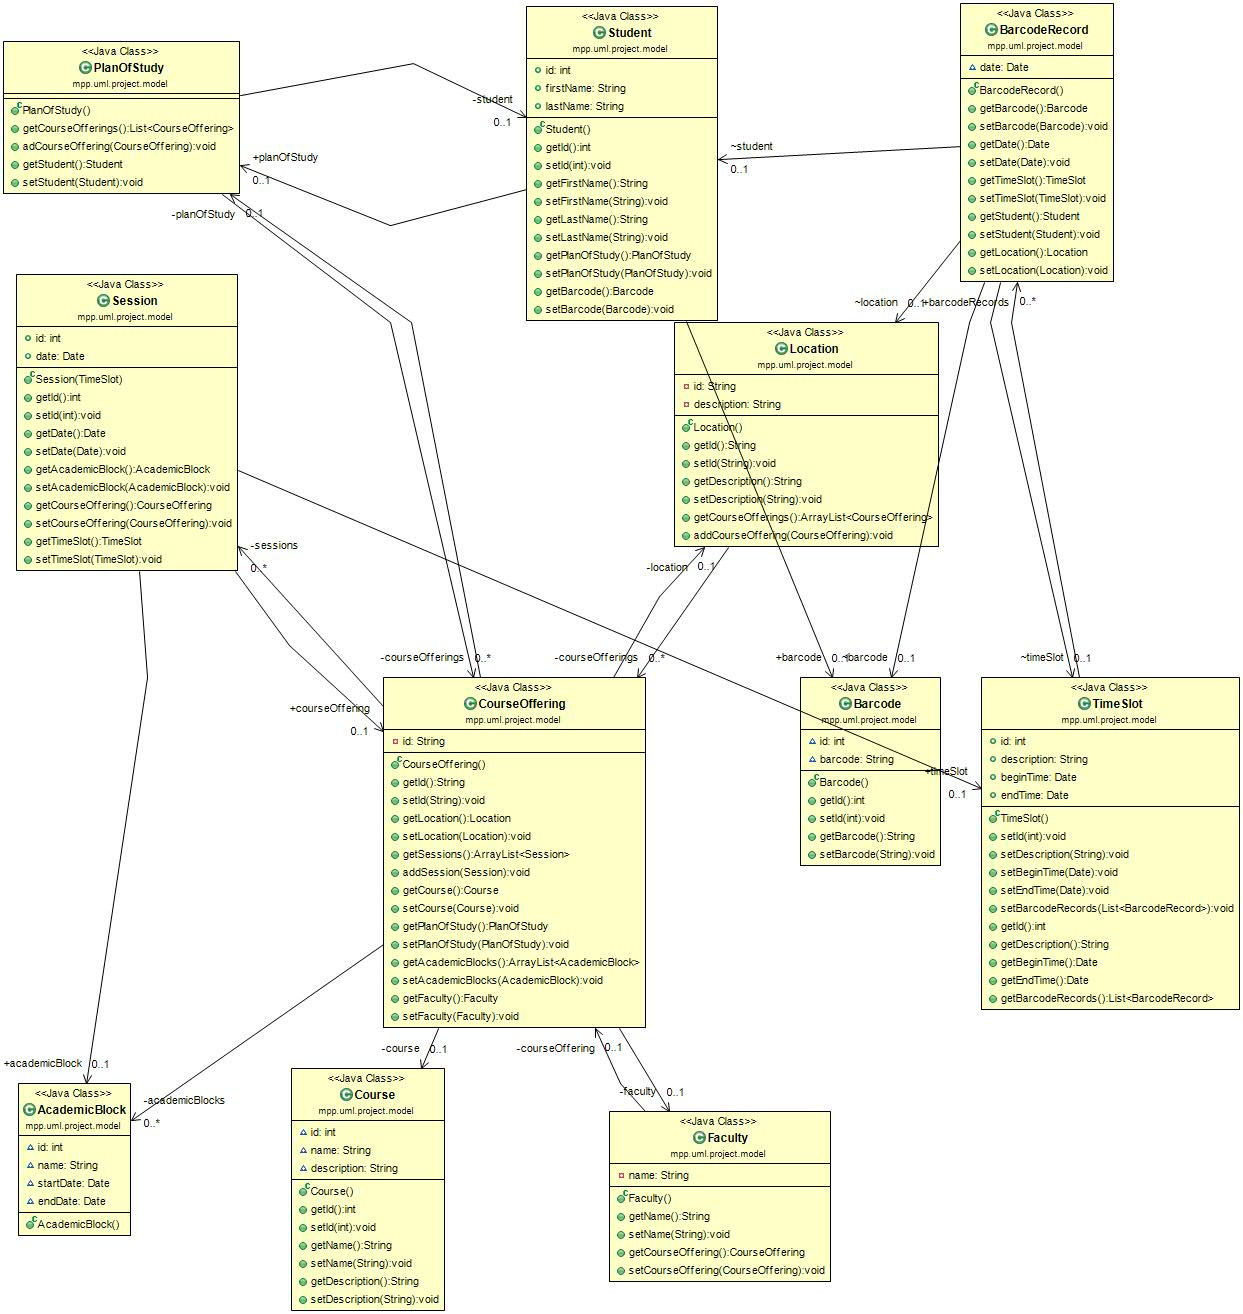
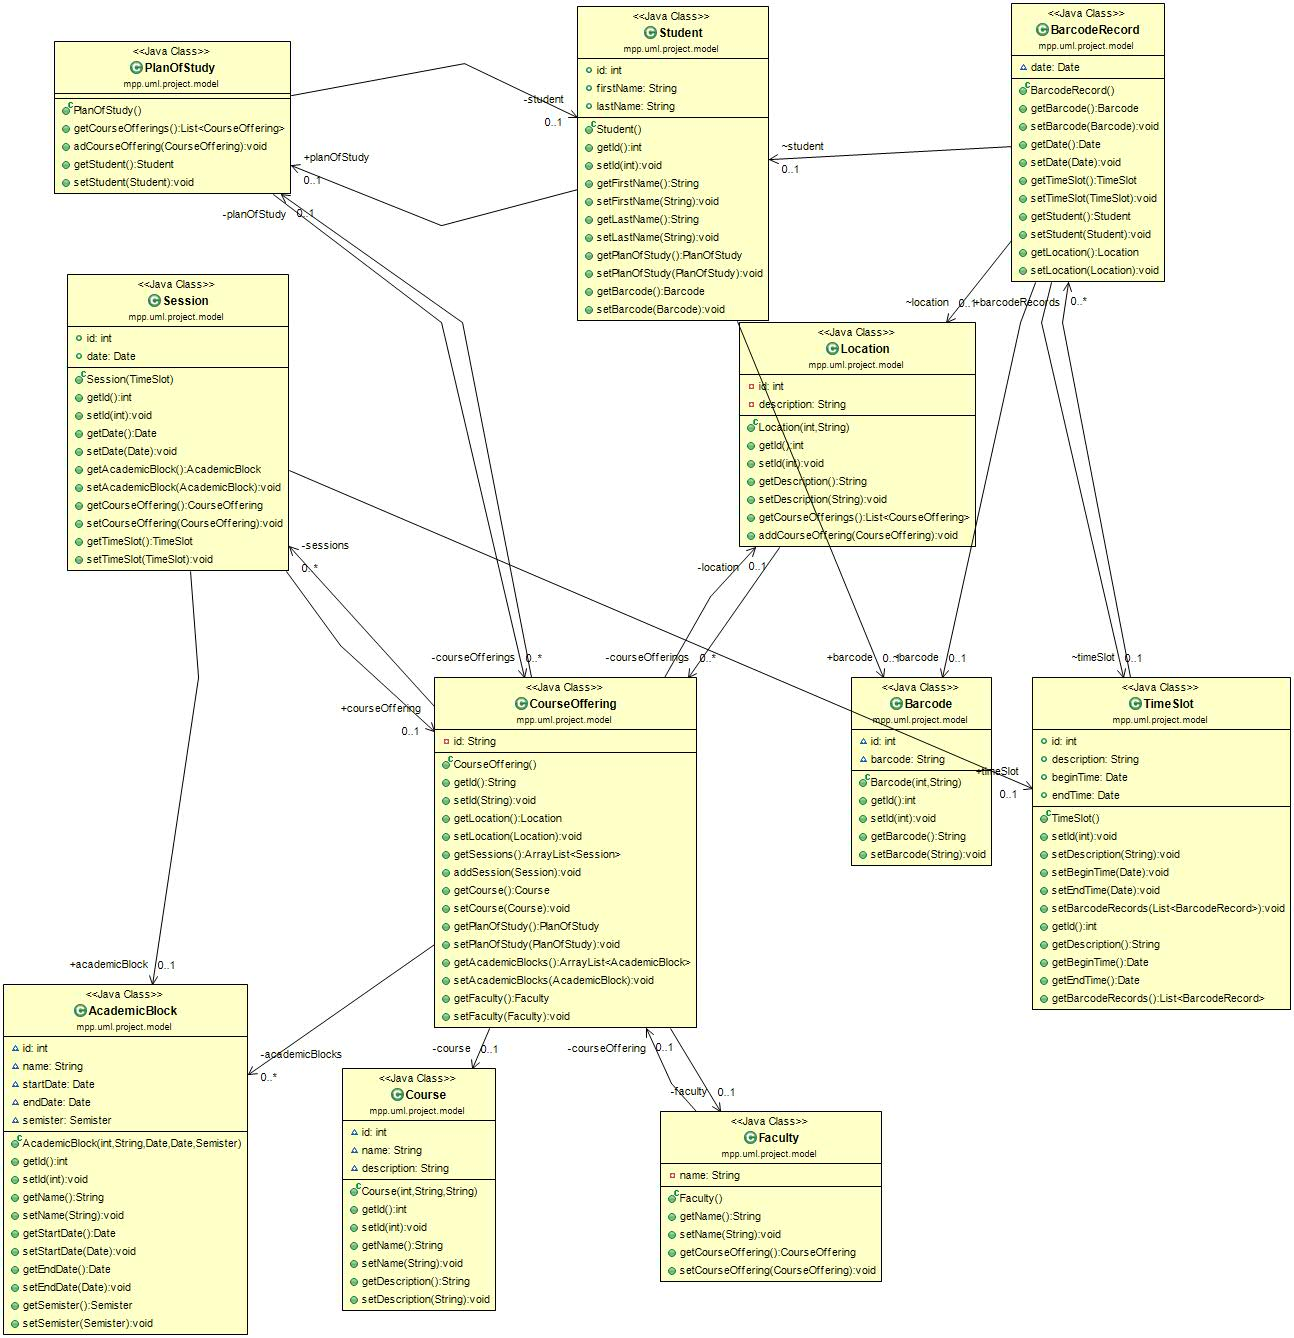
added some class constructor

diff --git a/src/mpp/uml/project/model/AcademicBlock.java b/src/mpp/uml/project/model/AcademicBlock.java
@@ -7,5 +7,49 @@ public class AcademicBlock {
 	String name;
 	Date startDate;
 	Date endDate;
+	Semister semister;
+	
+	public AcademicBlock(int blockId, String blockName, Date blockStartDate, Date blockEndDate, Semister blockSemister) {
+		id = blockId;
+		name = blockName;
+		startDate = blockStartDate;
+		endDate = blockEndDate;
+		semister = blockSemister;
+	}
+	
+	public int getId() {
+		return id;
+	}
+	public void setId(int id) {
+		this.id = id;
+	}
+	public String getName() {
+		return name;
+	}
+	public void setName(String name) {
+		this.name = name;
+	}
+	public Date getStartDate() {
+		return startDate;
+	}
+	public void setStartDate(Date startDate) {
+		this.startDate = startDate;
+	}
+	public Date getEndDate() {
+		return endDate;
+	}
+	public void setEndDate(Date endDate) {
+		this.endDate = endDate;
+	}
+
+	public Semister getSemister() {
+		return semister;
+	}
+
+	public void setSemister(Semister semister) {
+		this.semister = semister;
+	}
+	
+	
 
 }

diff --git a/src/mpp/uml/project/model/Location.java b/src/mpp/uml/project/model/Location.java
@@ -1,20 +1,23 @@
 package mpp.uml.project.model;
 
 import java.util.ArrayList;
+import java.util.List;
 
 public class Location {
-	private String id;
+	private int id;
 	private String description;
-	private ArrayList<CourseOffering> courseOfferings;
+	private List<CourseOffering> courseOfferings;
 	
-	public Location() {
-		
+	public Location(int locId, String des) {
+		id = locId;
+		description = des;
+		courseOfferings = new ArrayList<>();
 	}
 	
-	public String getId() {
+	public int getId() {
 		return id;
 	}
-	public void setId(String id) {
+	public void setId(int id) {
 		this.id = id;
 	}
 	public String getDescription() {
@@ -23,7 +26,7 @@ public class Location {
 	public void setDescription(String description) {
 		this.description = description;
 	}
-	public ArrayList<CourseOffering> getCourseOfferings() {
+	public List<CourseOffering> getCourseOfferings() {
 		return courseOfferings;
 	}
 	public void addCourseOffering(CourseOffering courseOffering) {

diff --git a/src/mpp/uml/project/model/Course.java b/src/mpp/uml/project/model/Course.java
@@ -5,6 +5,13 @@ public class Course {
 	int id;
 	String name;
 	String description;
+		
+	public Course(int courseId, String courseName, String courseDescription) {
+		id = courseId;
+		name = courseName;
+		description = courseDescription;
+	}
+	
 	public int getId() {
 		return id;
 	}

diff --git a/src/mpp/uml/project/model/Barcode.java b/src/mpp/uml/project/model/Barcode.java
@@ -2,7 +2,12 @@ package mpp.uml.project.model;
 
 public class Barcode {
 	int id;
-	String barcode;
+	String barcode;	
+	
+	public Barcode(int barcodeId, String barcode) {
+		id = barcodeId;
+		this.barcode = barcode;
+	}
 	public int getId() {
 		return id;
 	}
